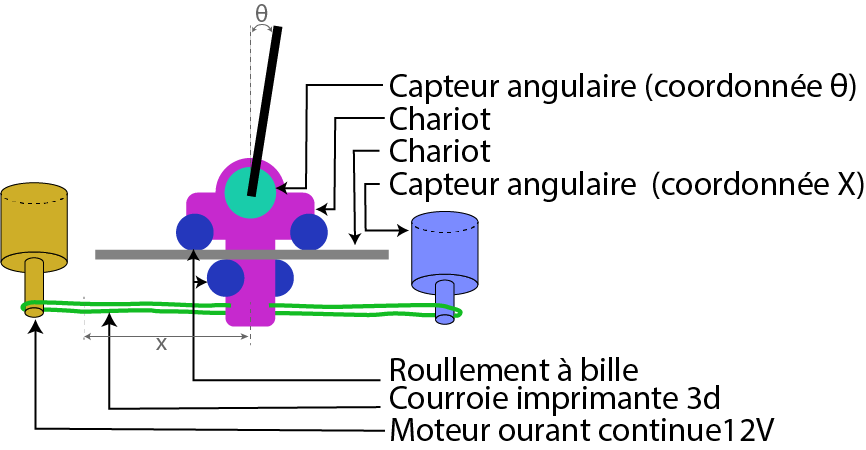
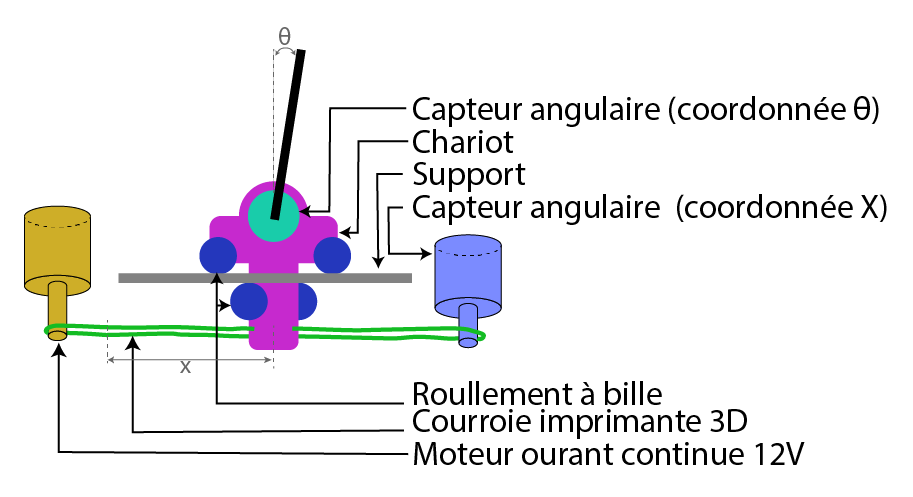
add new version README

Changed region(s): [[0.0, 0.0, 0.9977, 0.9956]]

diff --git a/README.md b/README.md
@@ -25,3 +25,7 @@ Dans cette section, nous allons aborder la conception complète du pendule inver
 ### Conception mécanique
 
 ![Shéma mécanique IP](./Media/shema_IP.png)
+
+Voici la structure mécanique du pendule. La barre rigide du pendule est fixée à un capteur angulaire qui permet une rotation libre tout en mesurant l'angle $\theta$. Ce capteur est monté sur un chariot qui peut se déplacer de manière rectiligne le long d'un axe pour maintenir la barre en équilibre. Le chariot est équipé de six roulements à billes disposés de manière à pincer un support fixe, garantissant ainsi un déplacement rectiligne sans frottement.
+
+Pour contrôler le déplacement rectiligne, j'utilise un moteur à courant continu qui entraîne une courroie d'imprimante 3D à laquelle le chariot est attaché. Afin de mesurer la postion selon l'axe _x_ (axe de liberté du chariot), la courroie est également racordé sur un capteur angulaire qui mesure le déplacement de la courroie et en déduit la position _x_ du chariot.
